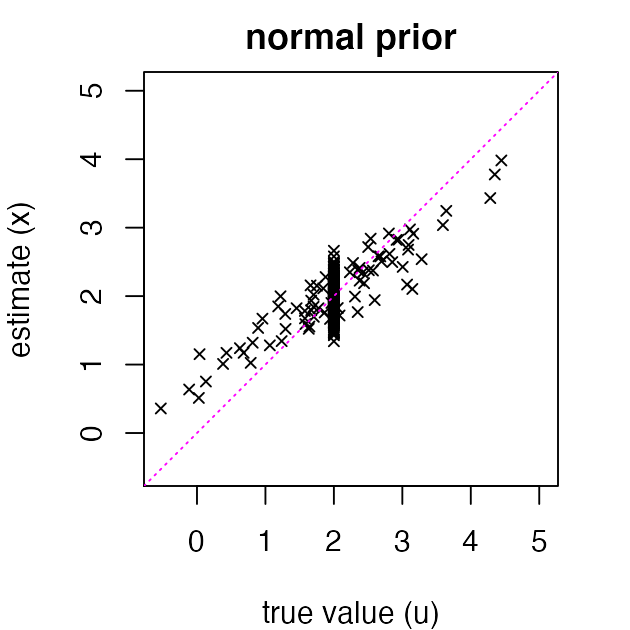
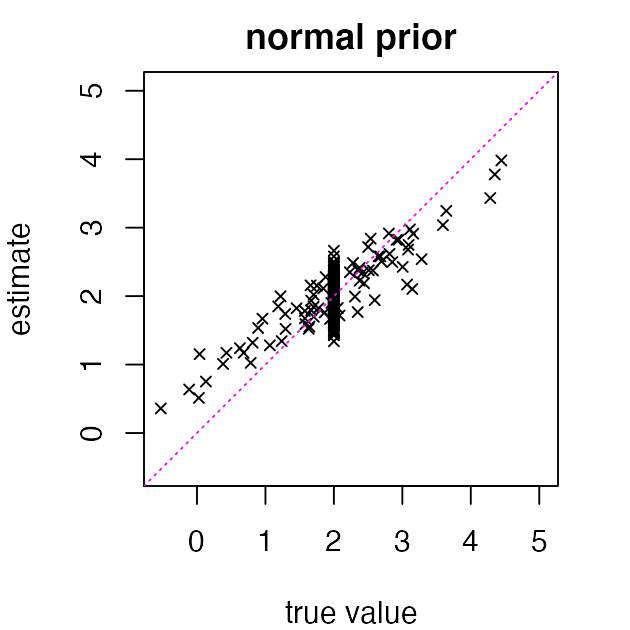
Rebuilt the shrink_intro vignette for the pkgdown site.

Changed region(s): [[0.0, 0.3016, 0.0603, 0.573], [0.4222, 0.9349, 0.6937, 0.9952]]

diff --git a/docs/articles/shrink_intro.html b/docs/articles/shrink_intro.html
@@ -71,7 +71,7 @@ Bayes normal means</h1>
                         <h4 data-toc-skip class="author">Jason
 Willwerscheid and Peter Carbonetto</h4>
             
-            <h4 data-toc-skip class="date">2024-02-26</h4>
+            <h4 data-toc-skip class="date">2024-02-27</h4>
       
       <small class="dont-index">Source: <a href="https://github.com/stephenslab/ebnm/blob/HEAD/vignettes/shrink_intro.Rmd" class="external-link"><code>vignettes/shrink_intro.Rmd</code></a></small>
       <div class="hidden name"><code>shrink_intro.Rmd</code></div>
@@ -150,7 +150,7 @@ we’ll treat them as quantities we cannot observe.</p>
 <code class="sourceCode R"><span class="fu"><a href="https://rdrr.io/r/graphics/par.html" class="external-link">par</a></span><span class="op">(</span>mar <span class="op">=</span> <span class="fu"><a href="https://rdrr.io/r/base/c.html" class="external-link">c</a></span><span class="op">(</span><span class="fl">4</span>,<span class="fl">4</span>,<span class="fl">2</span>,<span class="fl">2</span><span class="op">)</span><span class="op">)</span>
 <span class="va">lims</span> <span class="op">&lt;-</span> <span class="fu"><a href="https://rdrr.io/r/base/c.html" class="external-link">c</a></span><span class="op">(</span><span class="op">-</span><span class="fl">0.55</span>,<span class="fl">5.05</span><span class="op">)</span>
 <span class="fu"><a href="https://rdrr.io/r/graphics/plot.html" class="external-link">plot</a></span><span class="op">(</span><span class="va">u</span>,<span class="va">x</span>,pch <span class="op">=</span> <span class="fl">4</span>,cex <span class="op">=</span> <span class="fl">0.75</span>,xlim <span class="op">=</span> <span class="va">lims</span>,ylim <span class="op">=</span> <span class="va">lims</span>,
-     xlab <span class="op">=</span> <span class="st">"true value (u)"</span>,ylab <span class="op">=</span> <span class="st">"estimate (x)"</span>,
+     xlab <span class="op">=</span> <span class="st">"true value"</span>,ylab <span class="op">=</span> <span class="st">"estimate"</span>,
      main <span class="op">=</span> <span class="st">"MLE"</span><span class="op">)</span>
 <span class="fu"><a href="https://rdrr.io/r/graphics/abline.html" class="external-link">abline</a></span><span class="op">(</span>a <span class="op">=</span> <span class="fl">0</span>,b <span class="op">=</span> <span class="fl">1</span>,col <span class="op">=</span> <span class="st">"magenta"</span>,lty <span class="op">=</span> <span class="st">"dotted"</span><span class="op">)</span></code></pre></div>
 <p><img src="shrink_intro_files/figure-html/plot-mle-1.png" width="315" style="display: block; margin: auto;"></p>
@@ -172,7 +172,7 @@ be extracted with <code><a href="https://rdrr.io/r/stats/coef.html" class="exter
 <code class="sourceCode R"><span class="va">y</span> <span class="op">&lt;-</span> <span class="fu"><a href="https://rdrr.io/r/stats/coef.html" class="external-link">coef</a></span><span class="op">(</span><span class="va">fit_normal</span><span class="op">)</span>
 <span class="fu"><a href="https://rdrr.io/r/graphics/par.html" class="external-link">par</a></span><span class="op">(</span>mar <span class="op">=</span> <span class="fu"><a href="https://rdrr.io/r/base/c.html" class="external-link">c</a></span><span class="op">(</span><span class="fl">4</span>,<span class="fl">4</span>,<span class="fl">2</span>,<span class="fl">2</span><span class="op">)</span><span class="op">)</span>
 <span class="fu"><a href="https://rdrr.io/r/graphics/plot.html" class="external-link">plot</a></span><span class="op">(</span><span class="va">u</span>,<span class="va">y</span>,pch <span class="op">=</span> <span class="fl">4</span>,cex <span class="op">=</span> <span class="fl">0.75</span>,xlim <span class="op">=</span> <span class="va">lims</span>,ylim <span class="op">=</span> <span class="va">lims</span>,
-     xlab <span class="op">=</span> <span class="st">"true value (u)"</span>,ylab <span class="op">=</span> <span class="st">"estimate (x)"</span>,
+     xlab <span class="op">=</span> <span class="st">"true value"</span>,ylab <span class="op">=</span> <span class="st">"estimate"</span>,
      main <span class="op">=</span> <span class="st">"normal prior"</span><span class="op">)</span>
 <span class="fu"><a href="https://rdrr.io/r/graphics/abline.html" class="external-link">abline</a></span><span class="op">(</span>a <span class="op">=</span> <span class="fl">0</span>,b <span class="op">=</span> <span class="fl">1</span>,col <span class="op">=</span> <span class="st">"magenta"</span>,lty <span class="op">=</span> <span class="st">"dotted"</span><span class="op">)</span></code></pre></div>
 <p><img src="shrink_intro_files/figure-html/plot-ebnm-normal-1.png" width="315" style="display: block; margin: auto;"></p>
@@ -209,7 +209,7 @@ values:</p>
 <code class="sourceCode R"><span class="fu"><a href="https://rdrr.io/r/graphics/par.html" class="external-link">par</a></span><span class="op">(</span>mar <span class="op">=</span> <span class="fu"><a href="https://rdrr.io/r/base/c.html" class="external-link">c</a></span><span class="op">(</span><span class="fl">4</span>,<span class="fl">4</span>,<span class="fl">2</span>,<span class="fl">2</span><span class="op">)</span><span class="op">)</span>
 <span class="va">y</span> <span class="op">&lt;-</span> <span class="fu"><a href="https://rdrr.io/r/stats/coef.html" class="external-link">coef</a></span><span class="op">(</span><span class="va">fit_pn</span><span class="op">)</span>
 <span class="fu"><a href="https://rdrr.io/r/graphics/plot.html" class="external-link">plot</a></span><span class="op">(</span><span class="va">u</span>,<span class="va">y</span>,pch <span class="op">=</span> <span class="fl">4</span>,cex <span class="op">=</span> <span class="fl">0.75</span>,xlim <span class="op">=</span> <span class="va">lims</span>,ylim <span class="op">=</span> <span class="va">lims</span>,
-     xlab <span class="op">=</span> <span class="st">"true value (u)"</span>,ylab <span class="op">=</span> <span class="st">"estimate (x)"</span>,
+     xlab <span class="op">=</span> <span class="st">"true value"</span>,ylab <span class="op">=</span> <span class="st">"estimate"</span>,
      main <span class="op">=</span> <span class="st">"point-normal prior"</span><span class="op">)</span>
 <span class="fu"><a href="https://rdrr.io/r/graphics/abline.html" class="external-link">abline</a></span><span class="op">(</span>a <span class="op">=</span> <span class="fl">0</span>,b <span class="op">=</span> <span class="fl">1</span>,col <span class="op">=</span> <span class="st">"magenta"</span>,lty <span class="op">=</span> <span class="st">"dotted"</span><span class="op">)</span></code></pre></div>
 <p><img src="shrink_intro_files/figure-html/plot-ebnm-pn-1.png" width="315" style="display: block; margin: auto;"></p>
@@ -248,7 +248,7 @@ vignette:</p>
 <span class="co"># [1] stats     graphics  grDevices utils     datasets  methods   base     </span>
 <span class="co"># </span>
 <span class="co"># other attached packages:</span>
-<span class="co"># [1] ebnm_1.1-12</span>
+<span class="co"># [1] ebnm_1.1-3</span>
 <span class="co"># </span>
 <span class="co"># loaded via a namespace (and not attached):</span>
 <span class="co">#  [1] tidyselect_1.1.1  xfun_0.36         bslib_0.3.1       ashr_2.2-57      </span>
